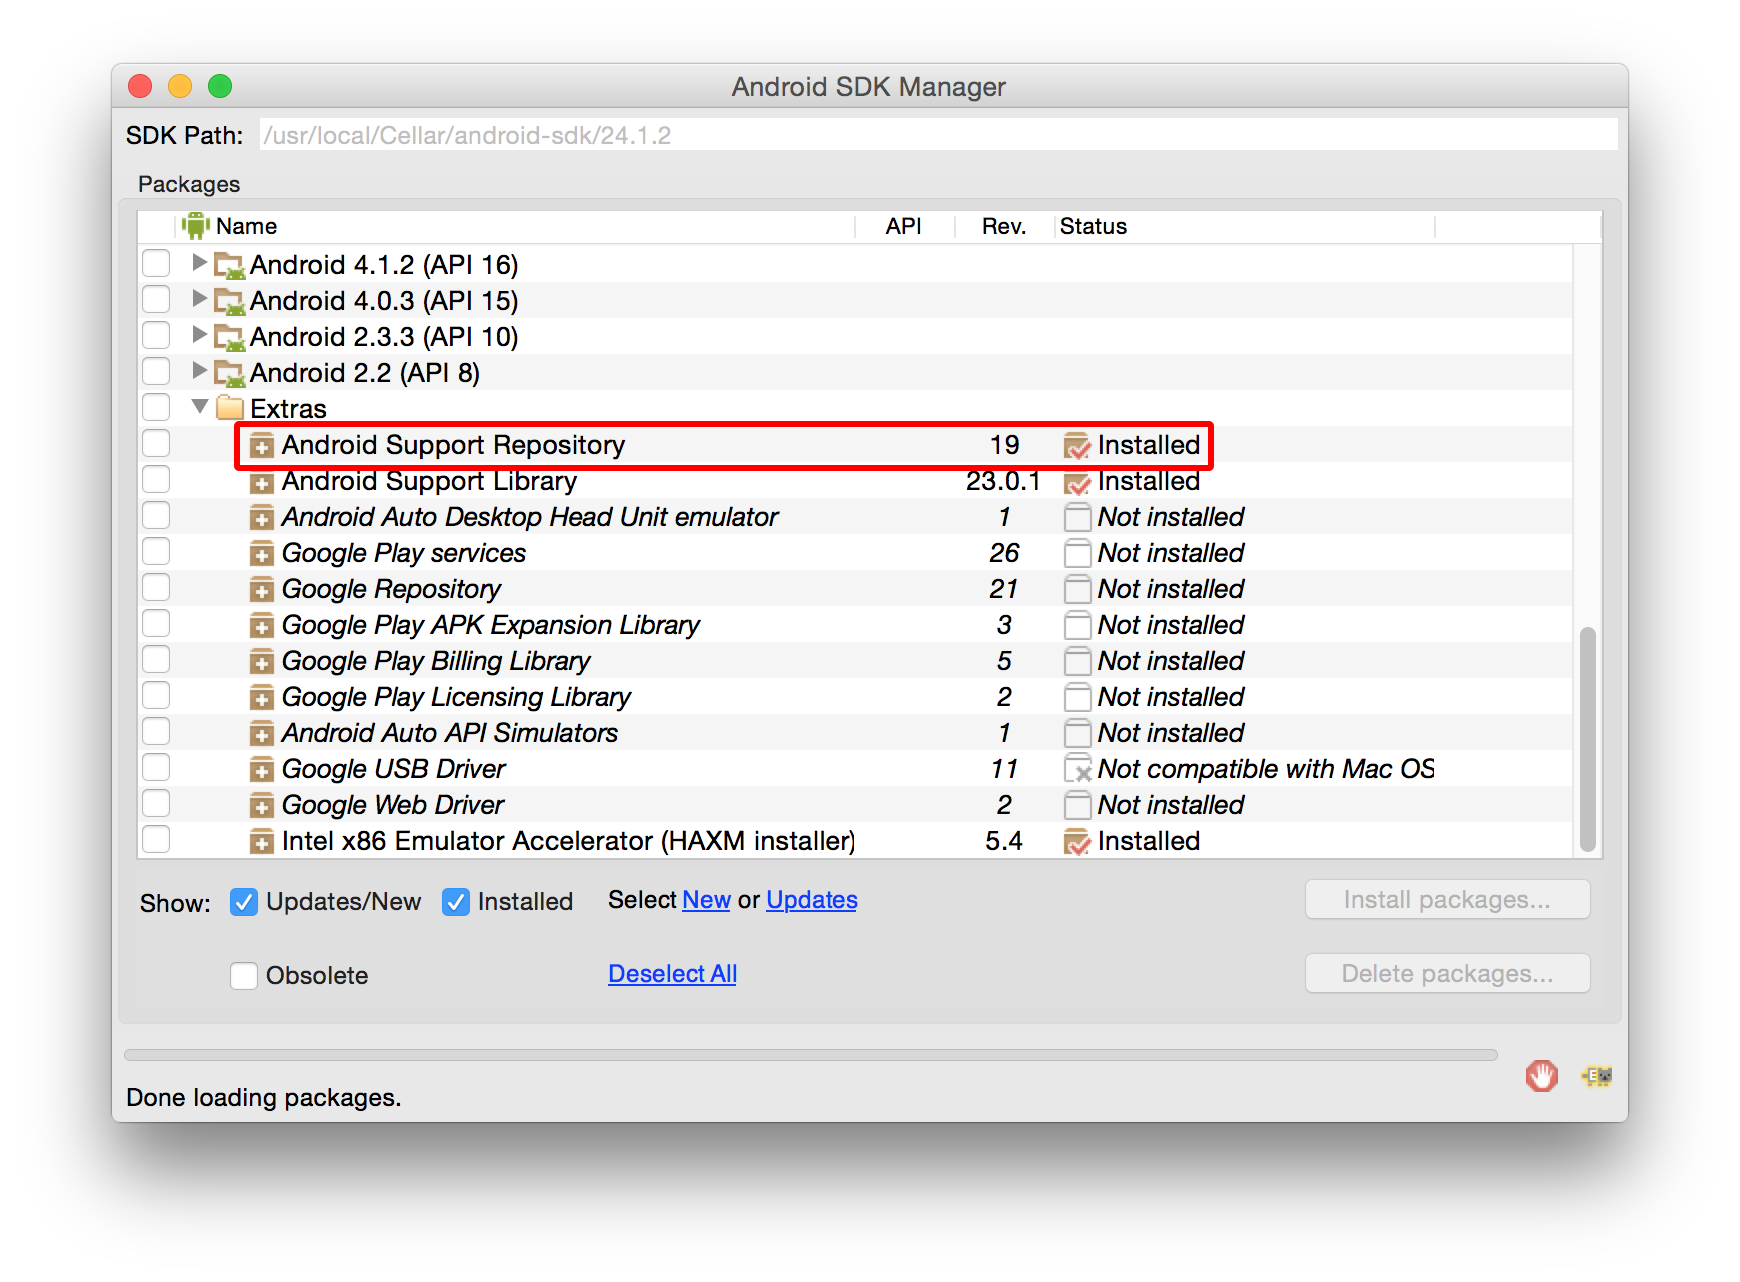
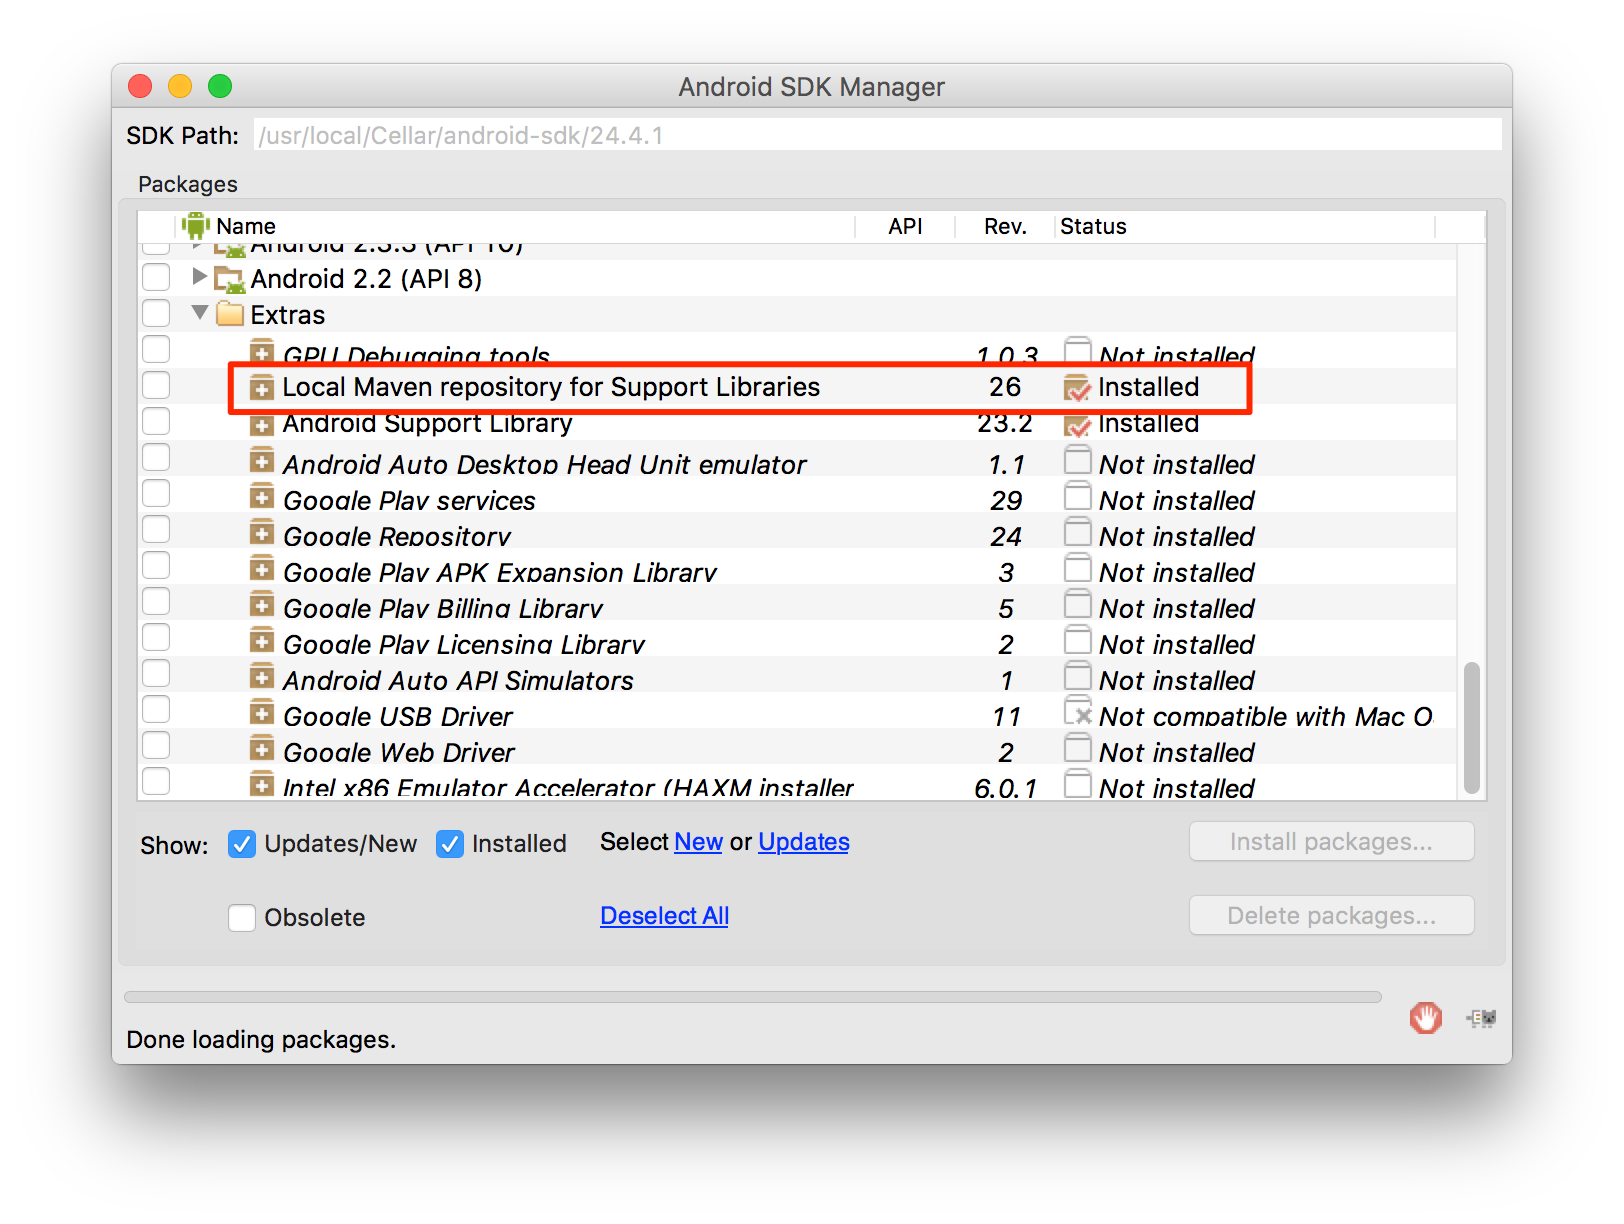
Updated the Android Setup with correct SDK package to install.
Summary:The "Android Support Library" package is now named "Local Maven repository for Support Libraries", so this updates the docs and screenshot accordingly.

Closes https://github.com/facebook/react-native/pull/6185

Reviewed By: mkonicek

Differential Revision:D3017638
Ninja: oss only (rn website)

Pulled By: mkonicek

fb-gh-sync-id: 3559a9f09930e7606af7912e7aaee3c4215c1b03
shipit-source-id: 3559a9f09930e7606af7912e7aaee3c4215c1b03

diff --git a/docs/DevelopmentSetupAndroid.md b/docs/DevelopmentSetupAndroid.md
@@ -52,7 +52,7 @@ React Native Android use [gradle](https://docs.gradle.org) as a build system. We
 1. Open the Android SDK Manager (**on Mac** start a new shell and run `android`); in the window that appears make sure you check:
   * Android SDK Build-tools version 23.0.**1**
   * Android 6.0 (API 23)
-  * Android Support Repository
+  * Local Maven repository for Support Libraries (this is called Android Support Repository in older versions)
 2. Click "Install Packages"
 
 ![SDK Manager window](img/AndroidSDK1.png) ![SDK Manager window](img/AndroidSDK2.png)
